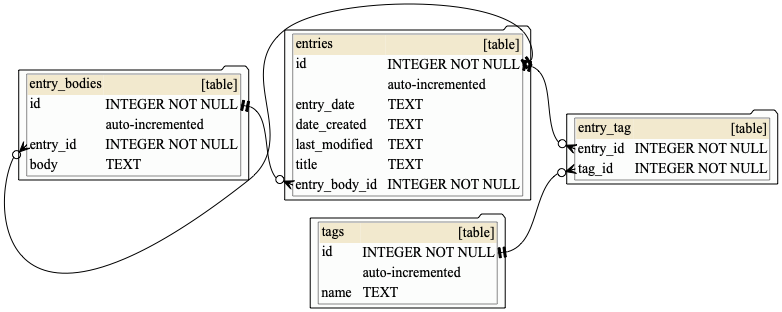
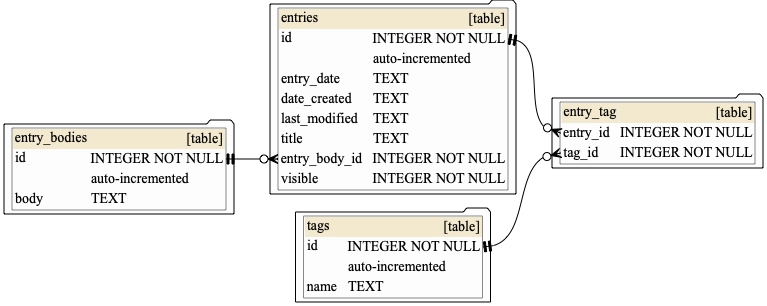
Added a visible column to the entries table in the dable and ensure the db was ordered

diff --git a/diapy/db/db.py b/diapy/db/db.py
@@ -37,7 +37,7 @@ class DB:
 
     def new_entry_body_pair(self):
         return DB_Entry(-1, datetime.now(), datetime.now(), datetime.now(),
-                        '', -1), DB_Entry_Body(-1, '')
+                        '', -1, 1), DB_Entry_Body(-1, '')
 
     def insert_or_update_entry(self, entry: DB_Entry) -> DB_Entry:
         if(entry.id < 0):  # means it does not in the db
@@ -64,8 +64,11 @@ class DB:
                                      entry.title, entry.entry_body_id, entry.id))
         return entry
 
-    def get_all_entries(self) -> [DB_Entry]:
-        self._cursor.execute("""SELECT id FROM entries""")
+    def get_all_entries(self, visible=True, ordered=True) -> [DB_Entry]:
+        self._cursor.execute("""SELECT id FROM entries {} {};""".format(
+            """WHERE visible != 0""" if visible else "",
+            """ORDER BY entry_date DESC""" if ordered else ""
+        ))
         unparsedEntries = self._cursor.fetchall()
         return [self.get_entry(unparsedItem[0])
                 for unparsedItem in unparsedEntries]
@@ -99,7 +102,8 @@ class DB:
 
 class DB_Entry:
     def __init__(self, id: int, entry_date: str, date_created: str,
-                 last_modified: str, title: str, entry_body_id: int):
+                 last_modified: str, title: str, entry_body_id: int,
+                 visible: int):
         self._id = id
         self._entry_date = datetime.strptime(
             entry_date, DATE_TIME_FORMAT) if isinstance(entry_date, str) else entry_date
@@ -109,6 +113,7 @@ class DB_Entry:
             last_modified, DATE_TIME_FORMAT) if isinstance(last_modified, str) else last_modified
         self._title = title
         self._entry_body_id = entry_body_id
+        self._visible = visible
 
     @property
     def id(self) -> int:
@@ -166,6 +171,15 @@ class DB_Entry:
     def entry_body_id(self, val):
         assert isinstance(val, int)
         self._entry_body_id = val
+
+    @property
+    def visible(self) -> int:
+        return self._visible
+
+    @visible.setter
+    def visible(self, val):
+        assert isinstance(val, int)
+        self._visible = val
 
 
 class DB_Tag:

diff --git a/diapy/db/dbsetup.py b/diapy/db/dbsetup.py
@@ -1,4 +1,5 @@
-from pysqlcipher3 import dbapi2 as sqlite3  # import sqlite3
+from pysqlcipher3 import dbapi2 as sqlite3
+# import sqlite3
 
 
 def create_db(path: str, password: str = None):
@@ -10,6 +11,7 @@ def create_db(path: str, password: str = None):
                 3: last_modified(TEXT)
                 4: title(TEXT)
                 5: entry_body_id(INTEGER) not null
+                6: visible(INTEGER) not null default 1
             entry_bodies:
                 0: id(INTEGER) not null *1
                 1: entry_id(INTEGER) not null
@@ -32,6 +34,7 @@ def create_db(path: str, password: str = None):
         last_modified TEXT,
         title TEXT,
         entry_body_id INTEGER NOT NULL,
+        visible INTEGER NOT NULL DEFAULT 1,
         FOREIGN KEY("entry_body_id") REFERENCES "entry_bodies"("id")
     )""")
 

diff --git a/diapy/app/forms/EditEntryForm.py b/diapy/app/forms/EditEntryForm.py
@@ -29,7 +29,7 @@ class EditEntryForm(npyscreen.FormBaseNew):
                                      relx=20, rely=2, max_height=5)
         self.body_widget = self.add(MultiLineEditBox, name='BODY', relx=3, rely=5,
                                     max_width=os.get_terminal_size()[0] - 6,
-                                    max_height=os.get_terminal_size()[1] - 15)
+                                    max_height=os.get_terminal_size()[1] - 9)
 
         self.add(npyscreen.ButtonPress, name="Exit", relx=3, rely=-3,
                  when_pressed_function=self.exit)
